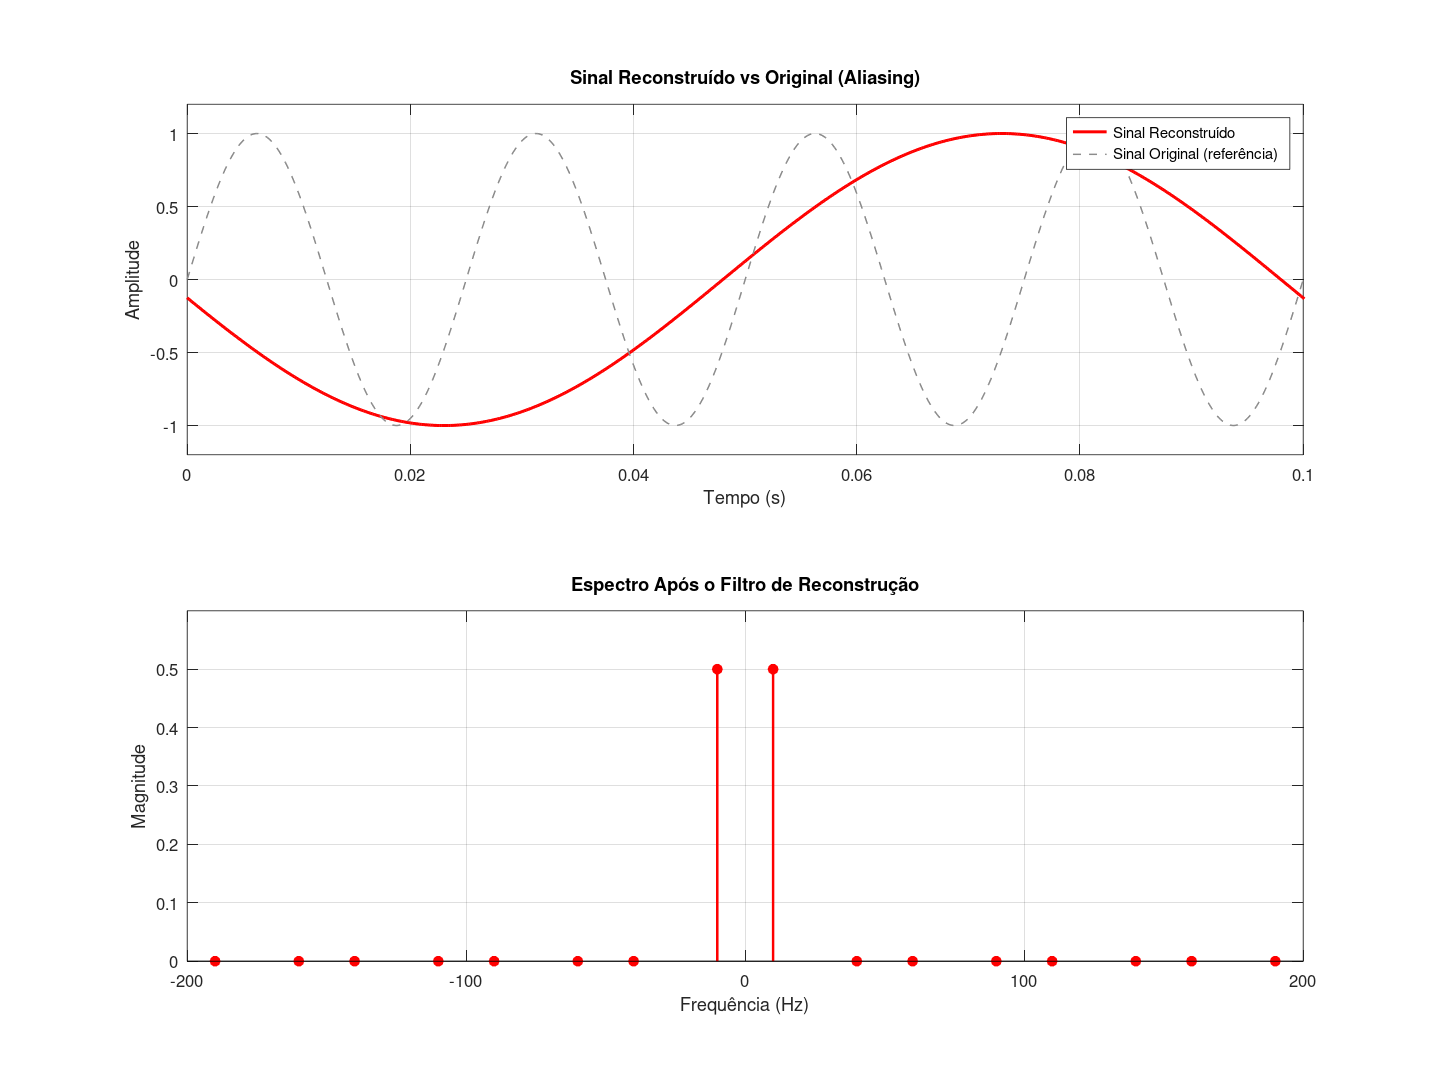
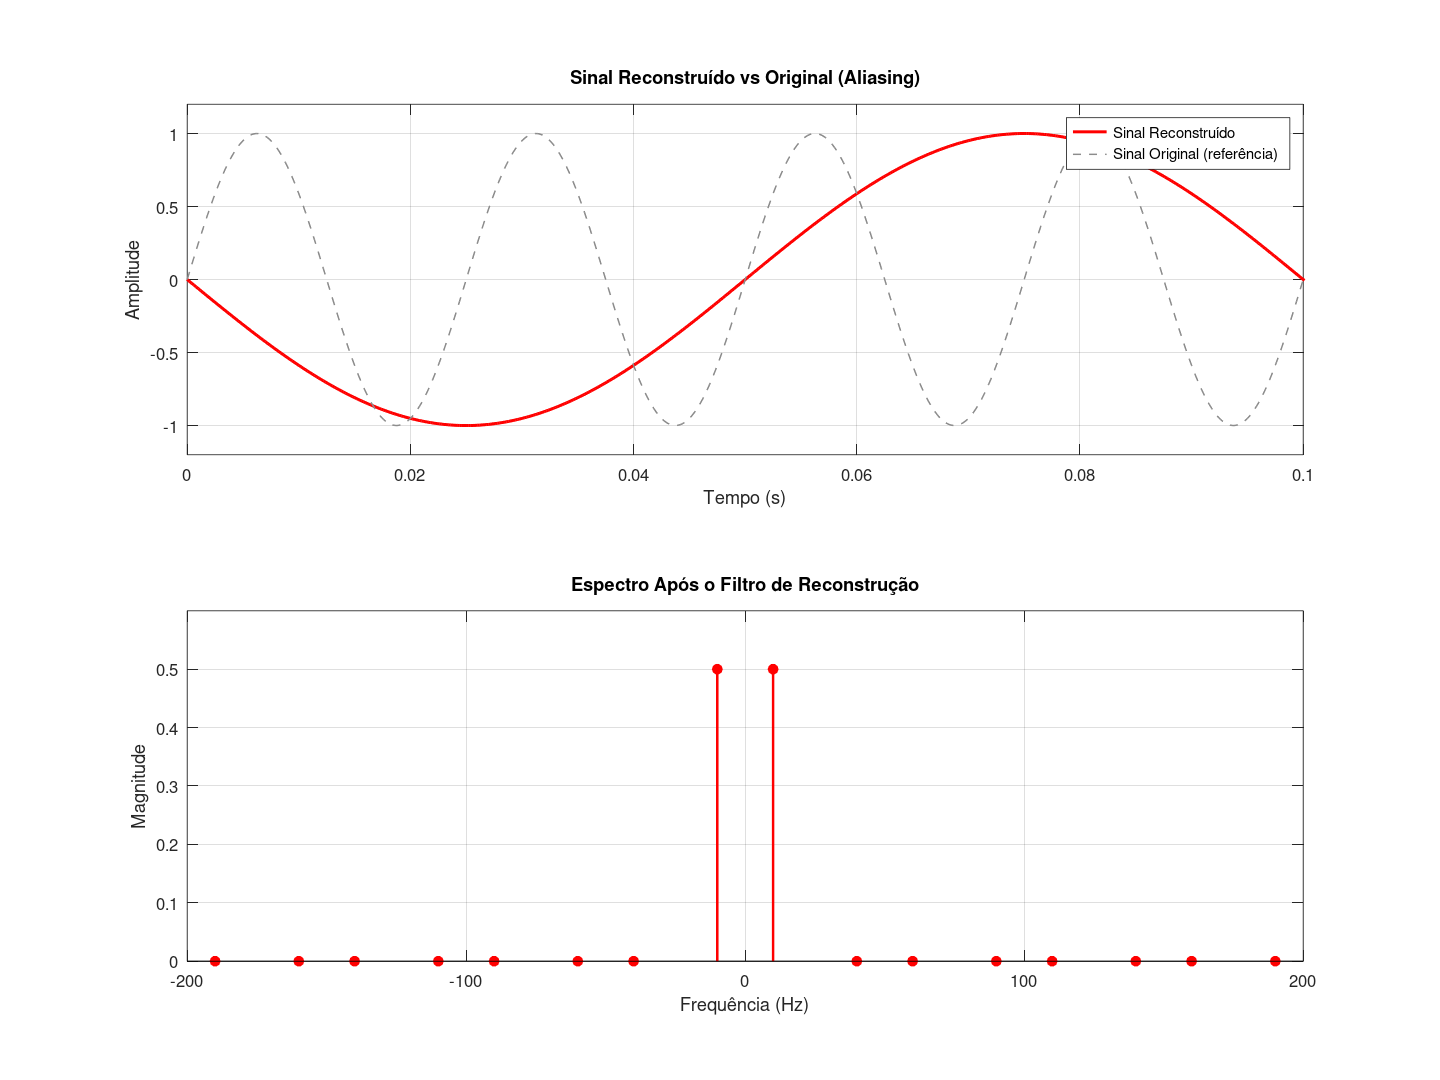
fix: correção da fase

diff --git a/utils/plotSamplingFigure.m b/utils/plotSamplingFigure.m
@@ -64,12 +64,12 @@ function fig = plotSamplingFigure( ...
     stem(continuousFrequencies, angle(continuousAmplitudes), 'b', 'Filled', 'LineWidth', 1.5, 'MarkerFaceColor', 'b');
     title('Espectro Contínuo ∠X(f)');
     xlabel('Frequência (Hz)'); ylabel('Magnitude');
-    grid on; xlim([-displayRange displayRange]); ylim([-2 2]);
+    grid on; xlim([-displayRange displayRange]); ylim([-4 4]);
 
     % PLOT 6: Espectro amostrado
     subplot(3, 2, 6);
     stem(sampledFrequencies, angle(sampledAmplitudes), sampledColor, 'Filled', 'LineWidth', 1.5, 'MarkerFaceColor', sampledColor);
     title(['Espectro Amostrado ∠X_s(f)']);
     xlabel('Frequência (Hz)'); ylabel('Fase');
-    grid on; xlim([-displayRange displayRange]); ylim([-2 2]);
+    grid on; xlim([-displayRange displayRange]); ylim([-4 4]);
 end

diff --git a/src/transform/flatTopTransform.m b/src/transform/flatTopTransform.m
@@ -21,6 +21,6 @@ function [amplitudes, frequencies] = ...
         frequencies = [frequencies, -frequency + frequencyShift, frequency + frequencyShift];
         amplitudes = [amplitudes, 0.5j, -0.5j];
     end
-    amplitudeScale = (tau / samplingPeriod) * sinc(frequencies * tau);
+    amplitudeScale = (tau / samplingPeriod) * sinc(frequencies * tau) .* exp(-1j * pi * tau .* frequencies);
     amplitudes = amplitudeScale .* amplitudes;
 end

diff --git a/src/sampling/flatTopSampling.m b/src/sampling/flatTopSampling.m
@@ -39,7 +39,7 @@ function [sampledSignal, sampledTime] = ...
   sampledSignal = zeros(size(sampledTime));
 
   for k = 1:length(samplingTime)
-    idx = (sampledTime >= samplingTime(k) - tau/2) & (sampledTime < samplingTime(k) + tau/2);
+    idx = (sampledTime >= samplingTime(k)) & (sampledTime < samplingTime(k) + tau);
     sampledSignal(idx) = amplitudes(k);
   end
 end
